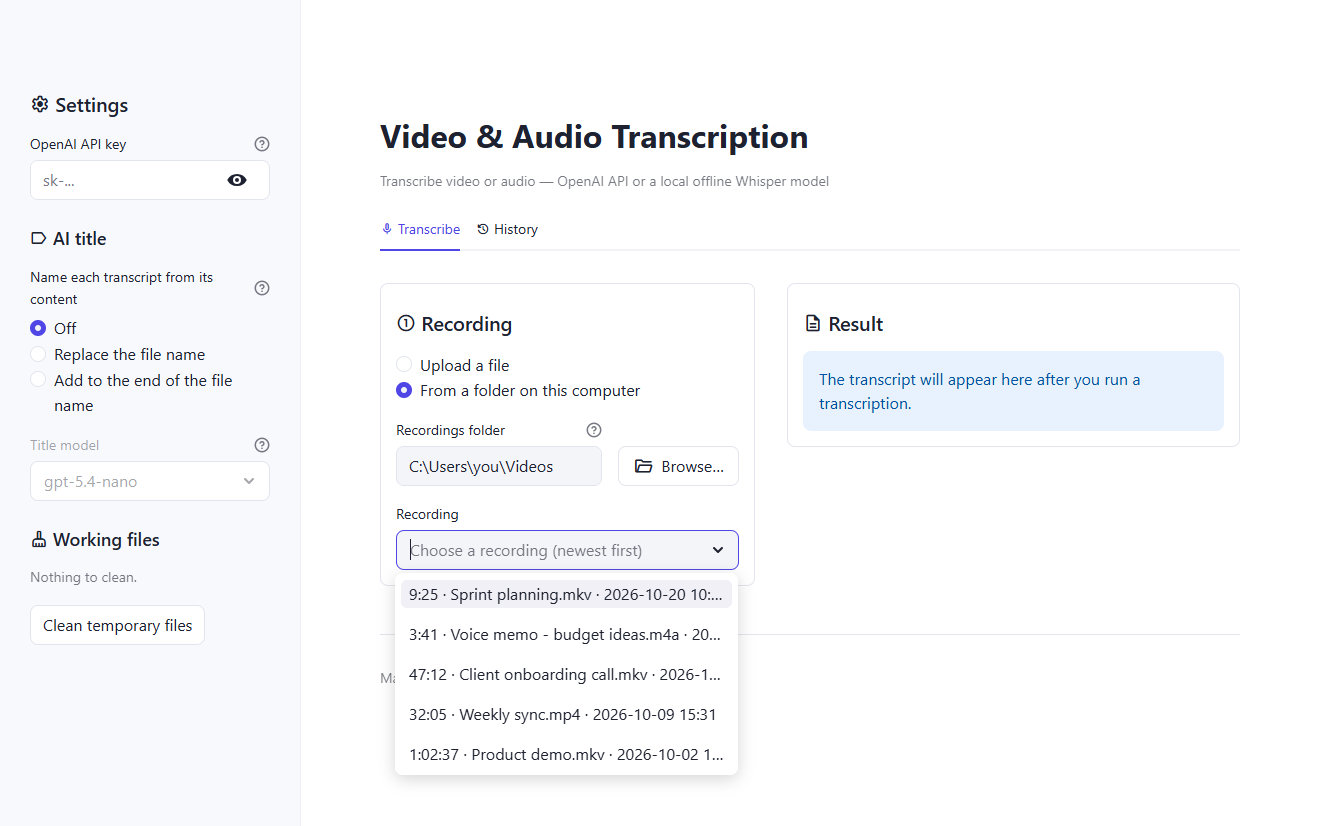
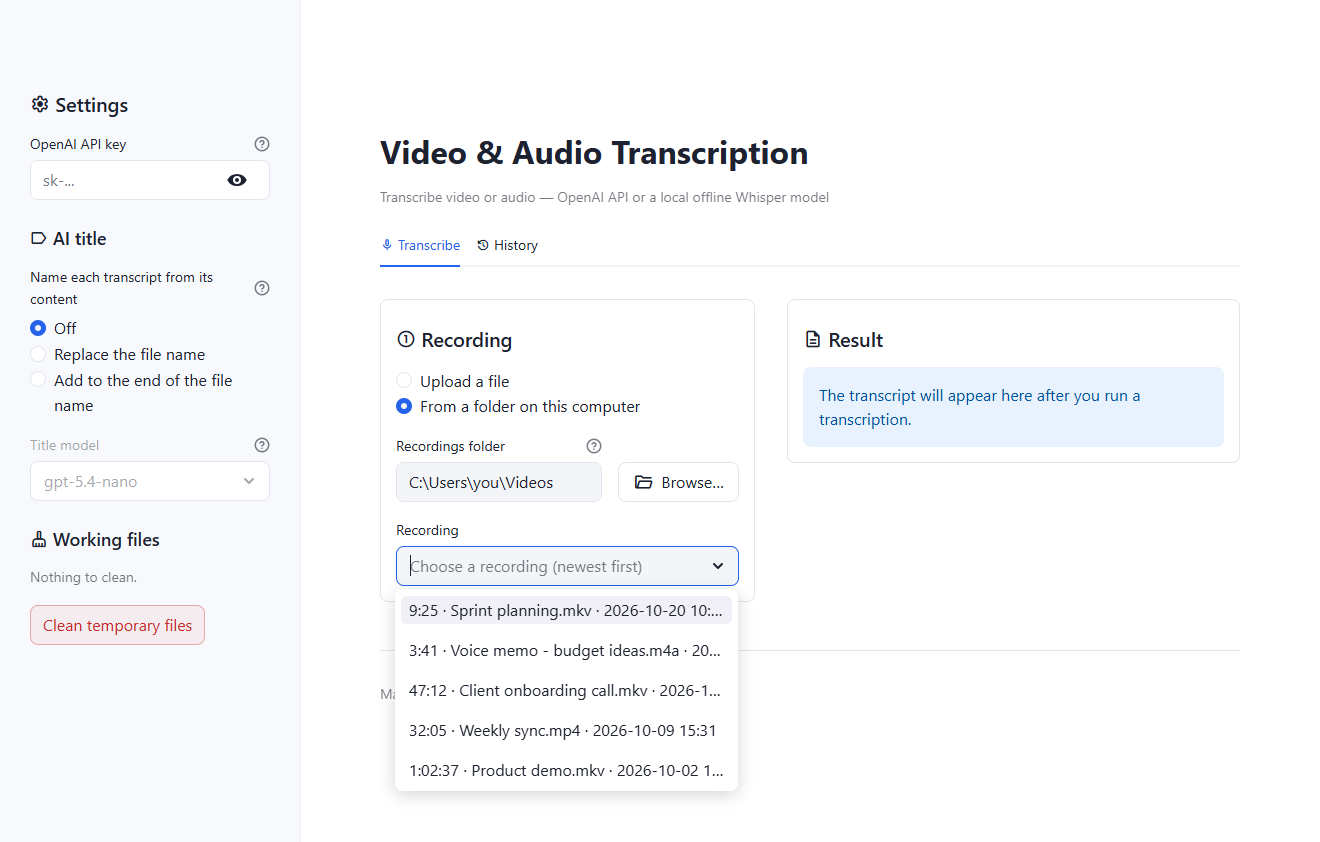
docs: retake the README screenshots in blue and record the colour change

diff --git a/README.md b/README.md
@@ -195,7 +195,7 @@ Docker is **optional** — it sits alongside the local `uv` / `make run` workflo
 
 Work in the **Transcribe** tab:
 
-1. **Choose the file:** either **Upload a file** — a video (MKV, MP4, etc.) or an audio file (MP3, WAV, etc.); or several at once, which are transcribed one after another (see step 3) — or **From a folder on this computer**: press **Browse…** to choose the recording in Windows' own *Open* window (it opens in the folder you used last, shows only video and audio files, and stays on top of the browser — click into it), or type or paste the full path of the folder, then pick a recording from the list (newest first, only video and audio files, subfolders not included). Each entry starts with the recording's length, e.g. `47:12 · Sprint planning.mkv · 2026-09-30 15:22`; a recording that is still being recorded shows none until the recorder finishes it, and in a folder of more than 200 recordings only the newest 200 show one. Pasting the path of a single recording also works — in Explorer, Shift + right-click it → *Copy as path* — and picks that file. Recordings can live in different folders: each Browse goes wherever the file is. The folder and the choice between the two are remembered. If the chosen recording changes on disk afterwards (it is still being recorded), the page says so and offers **Load it again** rather than dropping the result it shows. The app's own working folders (`temp/`, `uploads/`) are not accepted. A file from the folder is read where it lies: nothing is uploaded or copied into `uploads/`, so use it for **large recordings** — a browser upload is held in memory while it arrives, and a big one can fail when memory runs short. The audio is prepared automatically — a video's audio track is extracted, and audio files are used directly. An audio player appears so you can listen first. Above it sits **Transcribe from – to**, a slider with two ends, and under the slider a picture of the sound: speech shows as tall bars, silence as a thin line. Drag the ends (or focus one and use the arrow keys, a second a press; Page Up/Down, ten seconds) to leave out the start or the end of the recording — a stretch recorded by mistake, or the empty tail of a recording nobody stopped. The part that will be sent stays in the accent colour (indigo), the rest turns grey; the player plays only that part; the caption says what is left out ("**0:00 – 1:00:07** is sent: 1:00:07 of 1:15:00; 14:53 left out — not sent, not paid for"), and **Whole recording** puts the slider back. The times in the transcript stay the recording's own, so a transcript that starts at 10:00 still starts with `(10:00)`, and its first line says which part was transcribed. (For video, you can also download the extracted `.wav`.)
+1. **Choose the file:** either **Upload a file** — a video (MKV, MP4, etc.) or an audio file (MP3, WAV, etc.); or several at once, which are transcribed one after another (see step 3) — or **From a folder on this computer**: press **Browse…** to choose the recording in Windows' own *Open* window (it opens in the folder you used last, shows only video and audio files, and stays on top of the browser — click into it), or type or paste the full path of the folder, then pick a recording from the list (newest first, only video and audio files, subfolders not included). Each entry starts with the recording's length, e.g. `47:12 · Sprint planning.mkv · 2026-09-30 15:22`; a recording that is still being recorded shows none until the recorder finishes it, and in a folder of more than 200 recordings only the newest 200 show one. Pasting the path of a single recording also works — in Explorer, Shift + right-click it → *Copy as path* — and picks that file. Recordings can live in different folders: each Browse goes wherever the file is. The folder and the choice between the two are remembered. If the chosen recording changes on disk afterwards (it is still being recorded), the page says so and offers **Load it again** rather than dropping the result it shows. The app's own working folders (`temp/`, `uploads/`) are not accepted. A file from the folder is read where it lies: nothing is uploaded or copied into `uploads/`, so use it for **large recordings** — a browser upload is held in memory while it arrives, and a big one can fail when memory runs short. The audio is prepared automatically — a video's audio track is extracted, and audio files are used directly. An audio player appears so you can listen first. Above it sits **Transcribe from – to**, a slider with two ends, and under the slider a picture of the sound: speech shows as tall bars, silence as a thin line. Drag the ends (or focus one and use the arrow keys, a second a press; Page Up/Down, ten seconds) to leave out the start or the end of the recording — a stretch recorded by mistake, or the empty tail of a recording nobody stopped. The part that will be sent stays in the accent colour (blue), the rest turns grey; the player plays only that part; the caption says what is left out ("**0:00 – 1:00:07** is sent: 1:00:07 of 1:15:00; 14:53 left out — not sent, not paid for"), and **Whole recording** puts the slider back. The times in the transcript stay the recording's own, so a transcript that starts at 10:00 still starts with `(10:00)`, and its first line says which part was transcribed. (For video, you can also download the extracted `.wav`.)
 2. **Pick the engine & options:** Choose the **engine** — **OpenAI API** (`gpt-4o-transcribe` / `whisper-1`) or **Local (offline)** (pick a model size that downloads on first use). For video, you can tick **"Describe what's on screen"** (see [On-screen context](#on-screen-context-video-) below). Below it, tick **"Include timestamps & generate subtitles (.srt)"** where available (`whisper-1` and any local model). With `gpt-4o-transcribe` and the offline backend installed, you can tick **"Verify with local Whisper"** to have the transcript re-timed by, and filled in from, a local pass after the run (see [Verify with local Whisper](#verify-with-local-whisper-)). Whenever a local pass runs, **"Faster local Whisper (batched, about 1.5×)"** can speed it up; it is off unless ticked (see [Offline mode](#offline-mode-no-api-key-)). For the OpenAI engine, set your key in `.env` or in the sidebar.
 3. **Start Transcription:** Click "Start Transcription". Progress is shown part by part, with the elapsed time (this may take several minutes for long audio). The controls are locked until the run finishes, so a click cannot cancel it by accident; the History tab stays usable (an entry you open meanwhile fills in when the run ends). To cancel it, press **Stop** under Start (the toolbar's Stop does the same). The part already sent to OpenAI is paid for either way, so it is finished and kept: the page says "Stopping — waiting for the request in progress to finish…", and once that part is back — usually within a minute — the controls return with a note of how many parts are saved. **Start** then sends only the rest. A Local run stops within seconds; a video scan that is still running finishes first.
     **Several files at once** make a queue: the uploader lists them in order with a coloured mark for where each stands (green *done*, yellow *transcribing*, *next* in the accent colour, grey *waiting*) and a count such as **2 / 5 done**, the Transcription step says which file it is on (**File 3 of 5**), and the page prepares and shows the first not yet transcribed exactly as it would a single file. One click on **Start** transcribes them one after another with the settings on the page — not in parallel: each file gets its own run and its own History entry as it finishes, and the result panel shows the last one. The slider's stretch applies only to the file shown; the others are sent whole. A file that fails (no credit, a lost connection) stops the queue there: nothing after it is sent, the page shows its error and which files still wait, and **Start** takes that file again and then the rest. **Stop** stops the file in progress after its current part; the rest stay waiting. A file added to the uploader later joins the end of the queue; a file's ✕ removes it. Several uploads are all held in memory together while they arrive, so for big recordings use the folder instead.

diff --git a/docs/PROJECT.md b/docs/PROJECT.md
@@ -791,8 +791,8 @@ upload (identified by file_id, saved to uploads/) — several at once form a que
   theme); disabled buttons keep Streamlit's grey. A coloured label (`:red[...]`) was
   the alternative, but it would change the labels the tests and the clicks look for.
   **Downloads get the same light tint in the accent colour** *(2026-11-04, the owner:
-  "da li i ovo dugme da zapobojiš")* — #4f46e5 on light, the dark theme's link colour
-  #a5b4fc on dark — rather than `type="primary"`: a filled button would compete with
+  "da li i ovo dugme da zapobojiš")* — #2563eb on light, the dark theme's link colour
+  #93c5fd on dark (indigo until the accent became blue the same day) — rather than `type="primary"`: a filled button would compete with
   Start, and in an open History entry it would stand next to the red Delete. The
   result's downloads got keys (`result_dl_txt`, `result_dl_srt`) for it; History's
   had them. One table, `_TINTED_BUTTONS` in `app.py`, holds both tints.
@@ -808,7 +808,7 @@ upload (identified by file_id, saved to uploads/) — several at once form a que
   of 1,200 equal stretches (pydub: 0.1 s to read a 75-minute WAV, 0.13 s for the
   buckets; other formats go through one ffmpeg conversion to a mono 16 kHz WAV and are
   never decoded at their own rate — a two-hour stereo file would take over a gigabyte)
-  and draws them with Pillow: the part to transcribe in the theme's indigo, the rest grey
+  and draws them with Pillow: the part to transcribe in the theme's accent, the rest grey
   under a light shade, on a transparent background so both themes work; the bars are
   scaled to the 98th percentile, not to the loudest moment (one clap would flatten the
   rest). The control is a plain `st.slider` of two `datetime.time` values (`H:mm:ss`, a
@@ -955,8 +955,11 @@ upload (identified by file_id, saved to uploads/) — several at once form a que
   means rewriting the 2,700-line UI and adding an API, a job worker, Stop and chunked
   uploads; NiceGUI (Python, event-driven, one port) would also drop the rerun workarounds
   in this section, in days rather than weeks. The theme was the cheap first step:
-  - an indigo accent instead of Streamlit's red (#4F46E5 light; #6366F1 dark, where
-    white text on the lighter indigo would be too faint), the system font (Segoe UI on
+  - a blue accent instead of Streamlit's red: #2563EB on light; #2F6FED on dark, a
+    lighter blue that still carries white text at 4.5:1 and stands out from the dark
+    background (4.1:1) as much as the indigo did. Links are #1D4ED8 / #93C5FD. *Changed
+    2026-11-04 from indigo (#4F46E5 / #6366F1):* the owner saw the indigo as violet and
+    asked for blue ("Da, plava #2563EB"). The system font (Segoe UI on
     Windows, `system-ui` elsewhere: nothing is fetched from the internet, the app also
     runs offline), bordered fields, smaller headings (h1 2rem), a lighter sidebar with a
     border; `[theme.light]` and `[theme.dark]` are both set, so the menu's theme choice
@@ -972,7 +975,8 @@ upload (identified by file_id, saved to uploads/) — several at once form a que
     carries `:material/timer:` in its label, not as the expander's `icon=`, which
     replaces the open/close arrow (seen in a screenshot). The transcript's own markers
     (🖥, ⚠, ⏭) stay: they are part of the saved text and the downloads;
-  - `waveform.py` draws the kept stretch in #6366F1, which reads on both backgrounds.
+  - `waveform.py` draws the kept stretch in the dark theme's accent (#2F6FED), which reads
+    on both backgrounds.
   What would change this: if the look is still not enough, or the rerun model's limits
   (the locked page, a Stop that waits for the part in flight, uploads held in memory)
   start to matter more — then NiceGUI before React.
@@ -1159,7 +1163,7 @@ upload (identified by file_id, saved to uploads/) — several at once form a que
   **Download transcript (.txt)** / **Download subtitles (.srt)**, tinted in the accent
   colour; **Delete** and **Clean temporary files** are tinted red and ask once (Cancel
   first)
-- **A calmer look** — indigo theme (light and dark), system font, bordered fields, Material
+- **A calmer look** — blue theme (light and dark; indigo until 2026-11-04), system font, bordered fields, Material
   icons instead of emoji, no Deploy button; a bordered card per step and for the result,
   downloads in one row *(2026-10-30)*; the theme is chosen in the menu at the top right
   (System / Light / Dark) *(2026-11-04)*
@@ -1551,6 +1555,28 @@ pušuj"). Gate: 210 tests pass, ruff clean.
 ---
 
 ## 6. Journal
+
+### 2026-11-04 (part 5) — The accent becomes blue
+
+*Personal laptop.* The three commits from the work laptop (907a96f, 688c749, f24c1a8) were
+pulled here as a fast-forward (428 tests, ruff). The owner then found the accent
+"tirkizna", not the blue they remembered, and asked for that blue back. The theme had
+never changed: the repo's history holds only the indigo of 2026-10-30, and the owner's
+screenshot measured #5348E9, the same #4F46E5 as drawn. The tinted downloads and the
+coloured queue from the work laptop only put more of it on the page. Shown three
+swatches, the owner chose "Da, plava #2563EB". `config.toml`, the download tint in
+`app.py`, `waveform.py` and its test, README and §3 (UI, the theme bullet) changed: #2563EB
+light, #2F6FED dark (white text 4.55:1, 4.08:1 on the dark background, like the
+indigo's 4.47 and 4.16), links #1D4ED8 / #93C5FD. A scratch instance in the dark
+theme (port 8599, scratch folders) computed the active tab as rgb(47, 111, 237).
+
+The README screenshots (from 2026-10-30, before the queue and the new download labels)
+were retaken, and the run first failed at the Local run: `shoot.mjs` waited for
+"Transcript (.txt)", which 688c749 renamed to **Download transcript (.txt)** (the search
+is case-sensitive), until puppeteer's 180-second protocol timeout. Both waits were
+updated. `%TEMP%\video-to-text-screenshots` holds an older run (28–29 October) without
+the script's marker, so the script refused it; it was left alone and the run used
+`-Out` in the session's scratchpad. 428 tests, ruff. Not committed.
 
 ### 2026-11-04 (part 4) — Download buttons in the accent colour
 
